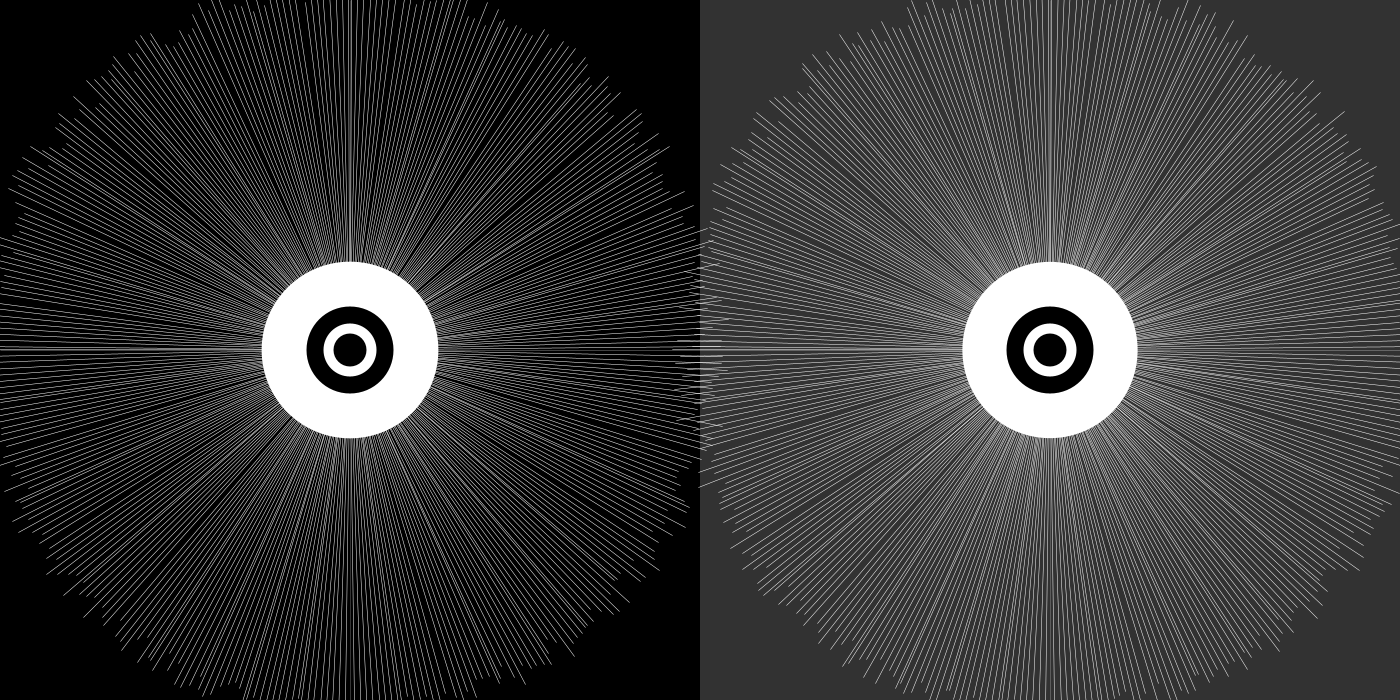
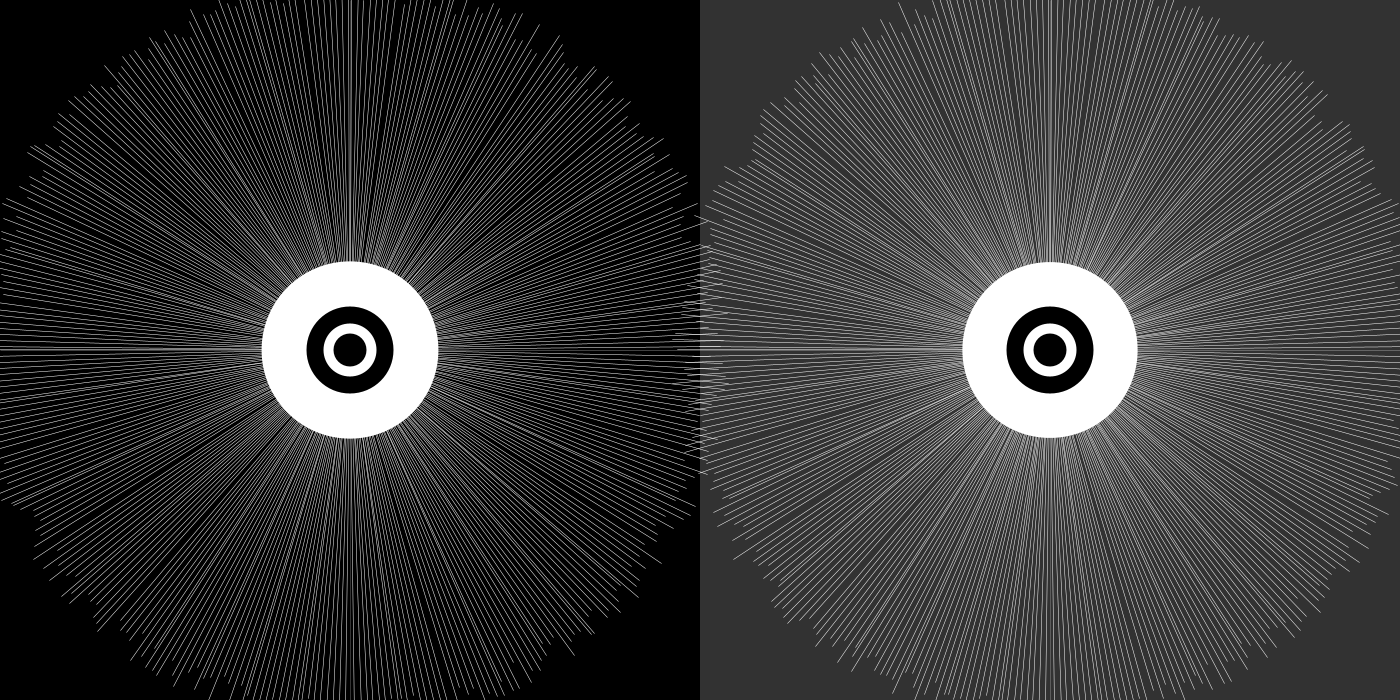
pravilo sketch.

Changed region(s): [[0.0, 0.0, 1.0, 1.0]]

diff --git a/pravilo/README.md b/pravilo/README.md
@@ -1,0 +1,11 @@
+Sketch based on a cover of a book I did not download. I just was kinda mesmerized by the pattern. I tried to create the same structure. 
+
+So here it is my recreation.
+
+Inspiration >
+
+![cover](./pravilo.jpg)
+
+result >
+
+![result](./pravilo.png)
